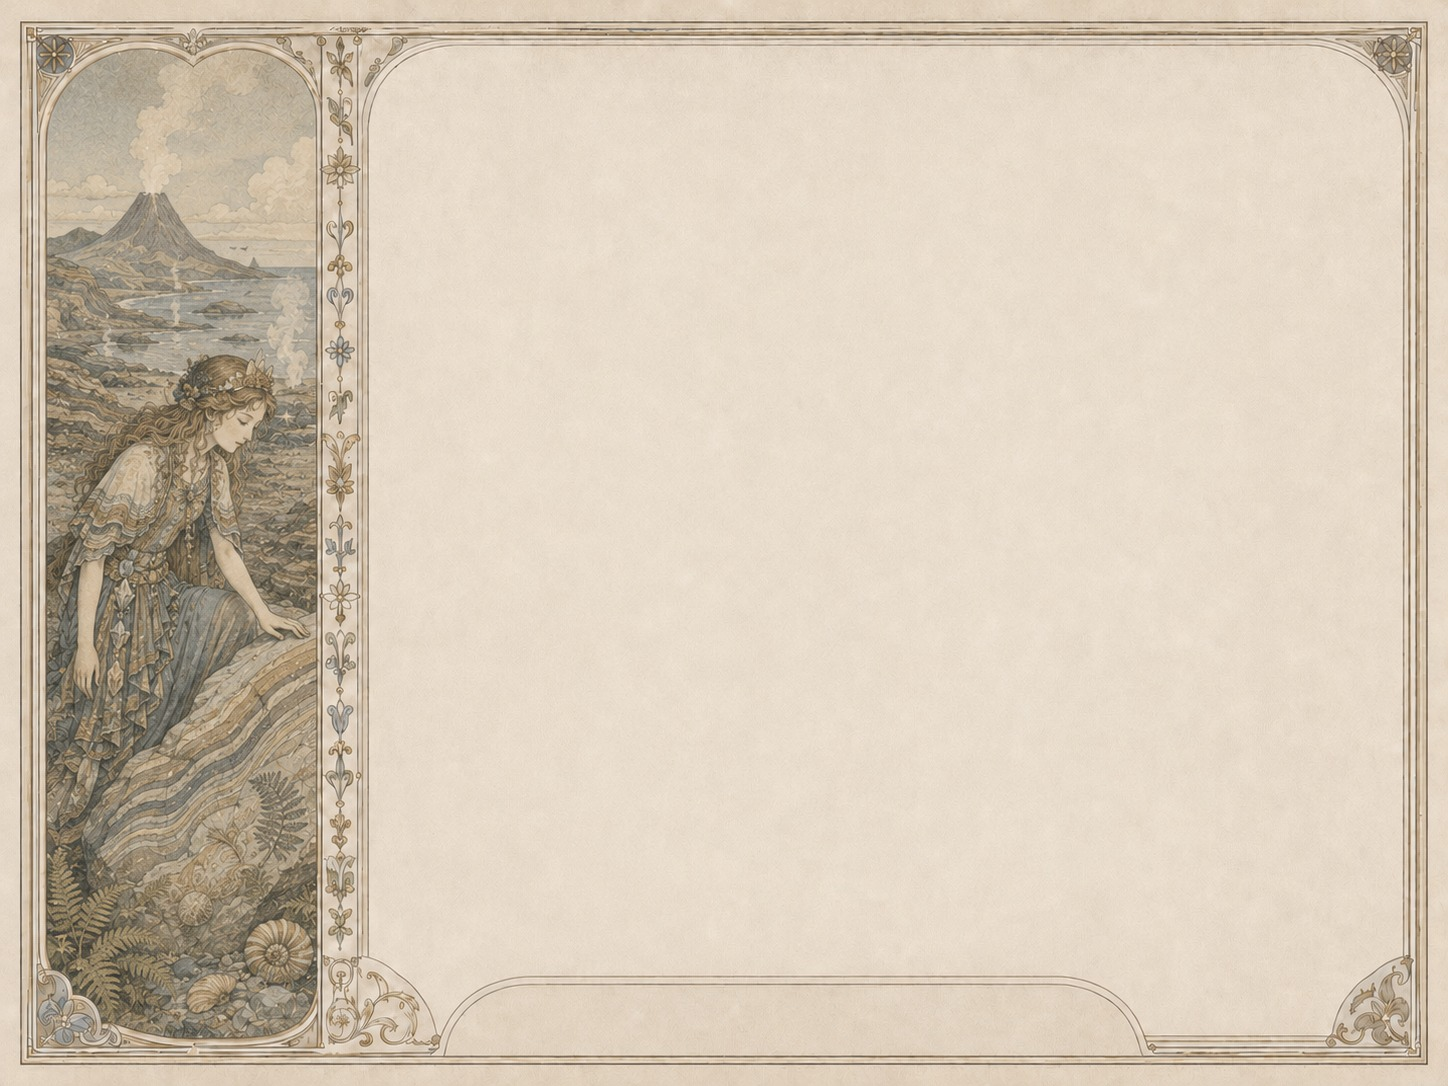
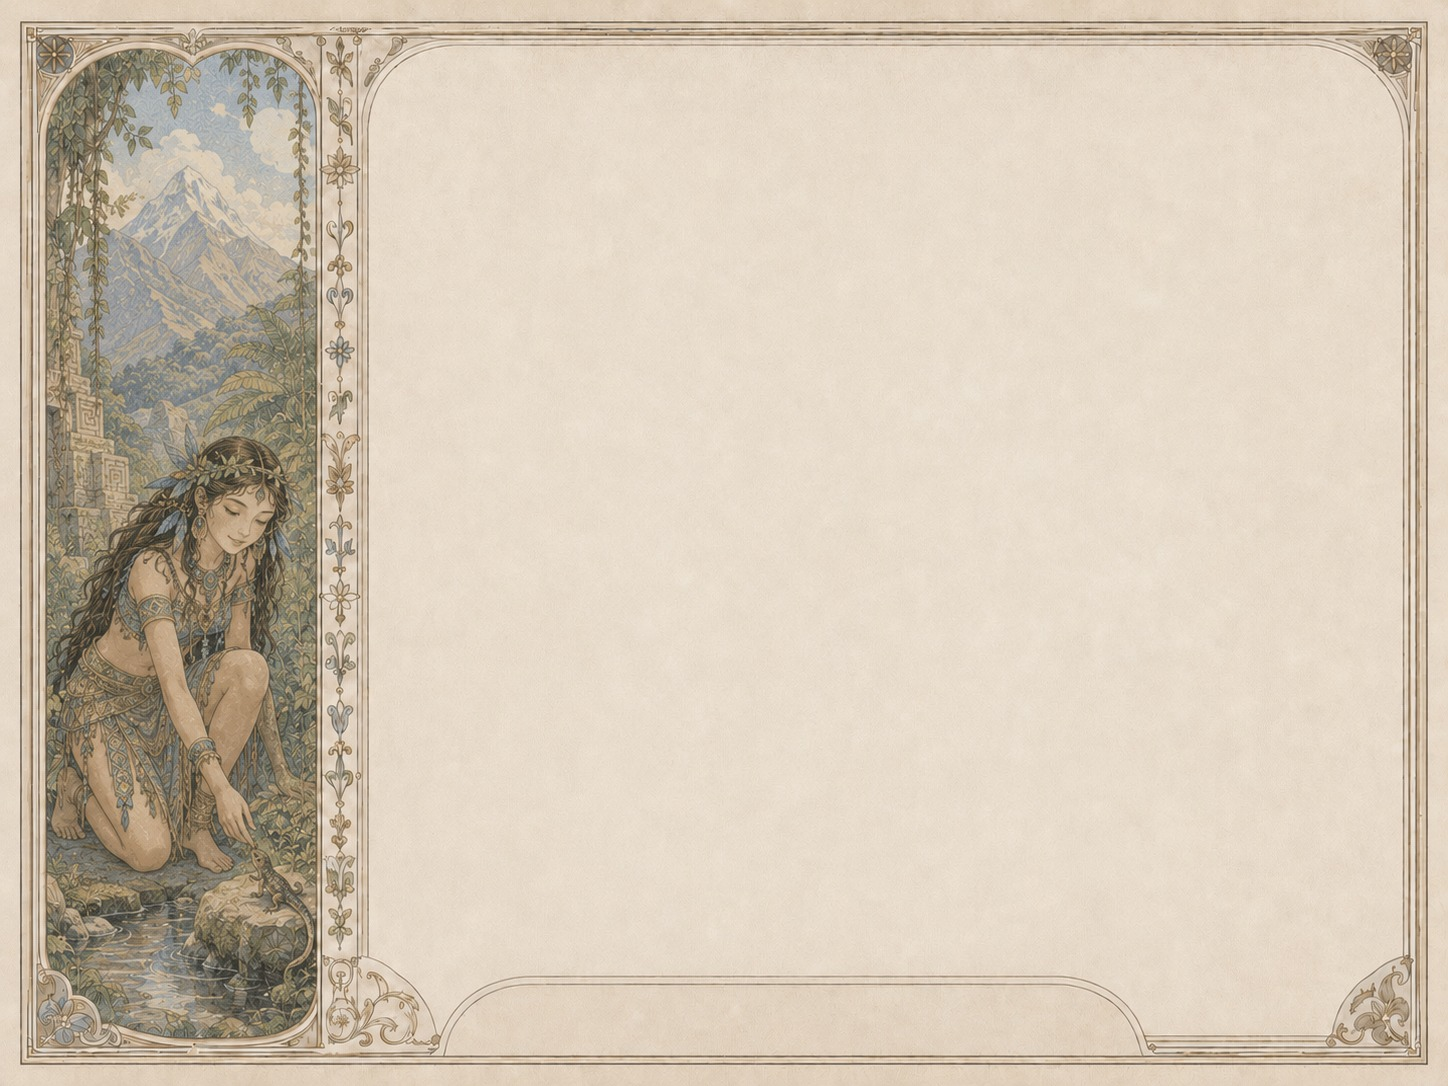
Fix chapter order/numbering and illustration mismatches
- mockChapters: reorder & renumber Oceans(06)/South America(07)/Asia(08)
  to match the section numbers baked into readingContent (6.x/7.x/8.x).
  Their firstSection values previously never matched the content's
  section numbers, so Next fell through to the whole-chapter hop -
  the 'later chapters jump a whole chapter at a time' bug.
- Swap earth-history.jpg <-> south-america.jpg: the files' scenes were
  reversed (rainforest/Andes vs volcano/fossils/strata).
- Re-home the Egypt scene: the Nile/pharaoh content lives in Africa 3.7,
  so rename asia-egypt.jpg -> africa-egypt.jpg, add it as a second Africa
  illustration, drop it from Asia, and set Asia's default to the China image.

Changed region(s): [[0.0311, 0.0304, 0.2175, 0.9724]]

diff --git a/data/mockChapters.js b/data/mockChapters.js
@@ -32,23 +32,23 @@ const CHAPTERS = [
     illustrationKey: "australia-pacific",
     defaultIllustrationId: "australia-pacific-main",
     firstSection: "5.1" },
-  { id: "south-america",       number: "06", title: "South America",
-    tagline: "Andes peaks, rainforest breath, and the heartbeat of ruins.",
-    description: "The Andes and the breath of the rainforest.",
-    illustrationKey: "south-america",
-    defaultIllustrationId: "south-america-main",
-    firstSection: "6.1" },
-  { id: "asia",                number: "07", title: "Asia",
-    tagline: "Pagodas, monsoons, silk roads, and ten thousand years of memory.",
-    description: "Pagodas, monsoons and ancient roads.",
-    illustrationKey: "asia",
-    defaultIllustrationId: "asia-egypt",
-    firstSection: "7.1" },
-  { id: "oceans",              number: "08", title: "Oceans",
+  { id: "oceans",              number: "06", title: "Oceans",
     tagline: "Tides, depths, and the long singing of whales.",
     description: "Tides, depths and the singing of whales.",
     illustrationKey: "oceans",
     defaultIllustrationId: "oceans-main",
+    firstSection: "6.1" },
+  { id: "south-america",       number: "07", title: "South America",
+    tagline: "Andes peaks, rainforest breath, and the heartbeat of ruins.",
+    description: "The Andes and the breath of the rainforest.",
+    illustrationKey: "south-america",
+    defaultIllustrationId: "south-america-main",
+    firstSection: "7.1" },
+  { id: "asia",                number: "08", title: "Asia",
+    tagline: "Pagodas, monsoons, silk roads, and ten thousand years of memory.",
+    description: "Pagodas, monsoons and ancient roads.",
+    illustrationKey: "asia",
+    defaultIllustrationId: "asia-china",
     firstSection: "8.1" },
   { id: "europe",              number: "09", title: "Europe",
     tagline: "Cathedrals, courts, and the long age of light.",

diff --git a/data/chapterIllustrations.js b/data/chapterIllustrations.js
@@ -23,6 +23,8 @@ const CHAPTER_ILLUSTRATIONS = {
     images: [
       { id: "africa-main", label: "Africa",
         src: "assets/illustrations/content/africa.jpg" },
+      { id: "africa-egypt", label: "Egypt (the Nile)",
+        src: "assets/illustrations/content/africa-egypt.jpg" },
     ],
   },
   antarctica: {
@@ -49,8 +51,6 @@ const CHAPTER_ILLUSTRATIONS = {
   asia: {
     title: "Asia",
     images: [
-      { id: "asia-egypt", label: "Egypt",
-        src: "assets/illustrations/content/asia-egypt.jpg" },
       { id: "asia-china", label: "China",
         src: "assets/illustrations/content/asia-china.jpg" },
     ],
